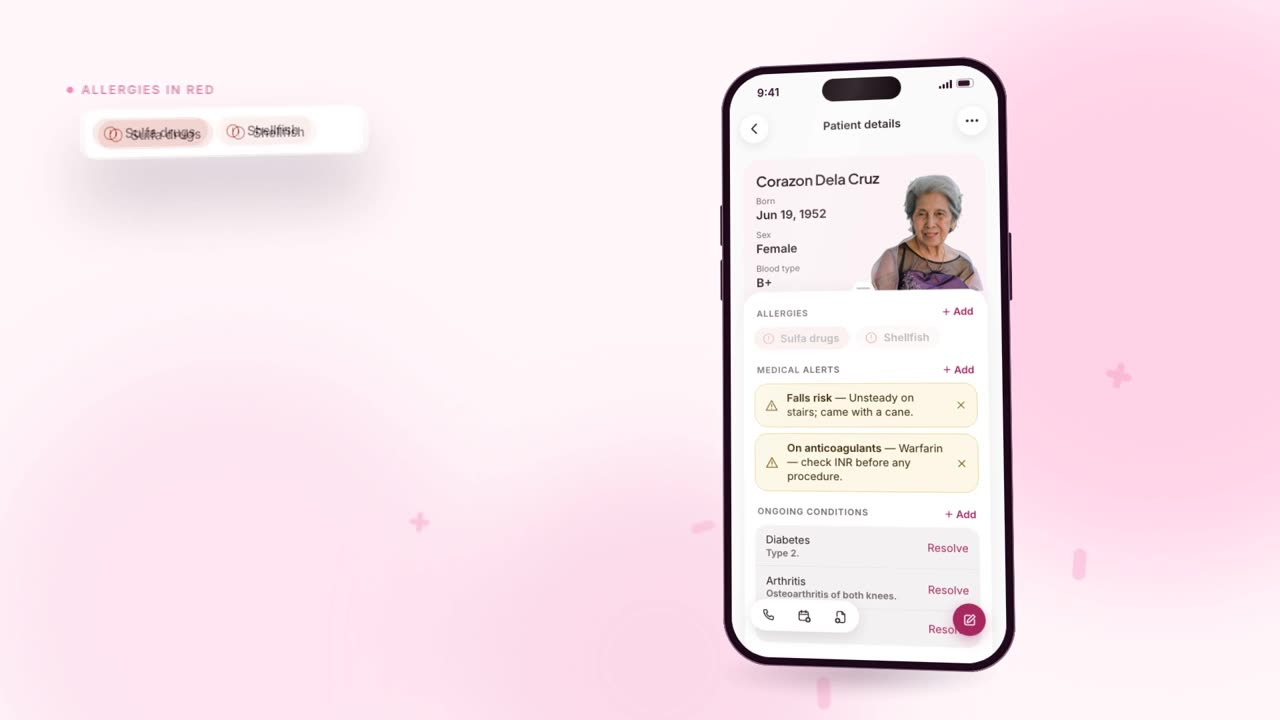
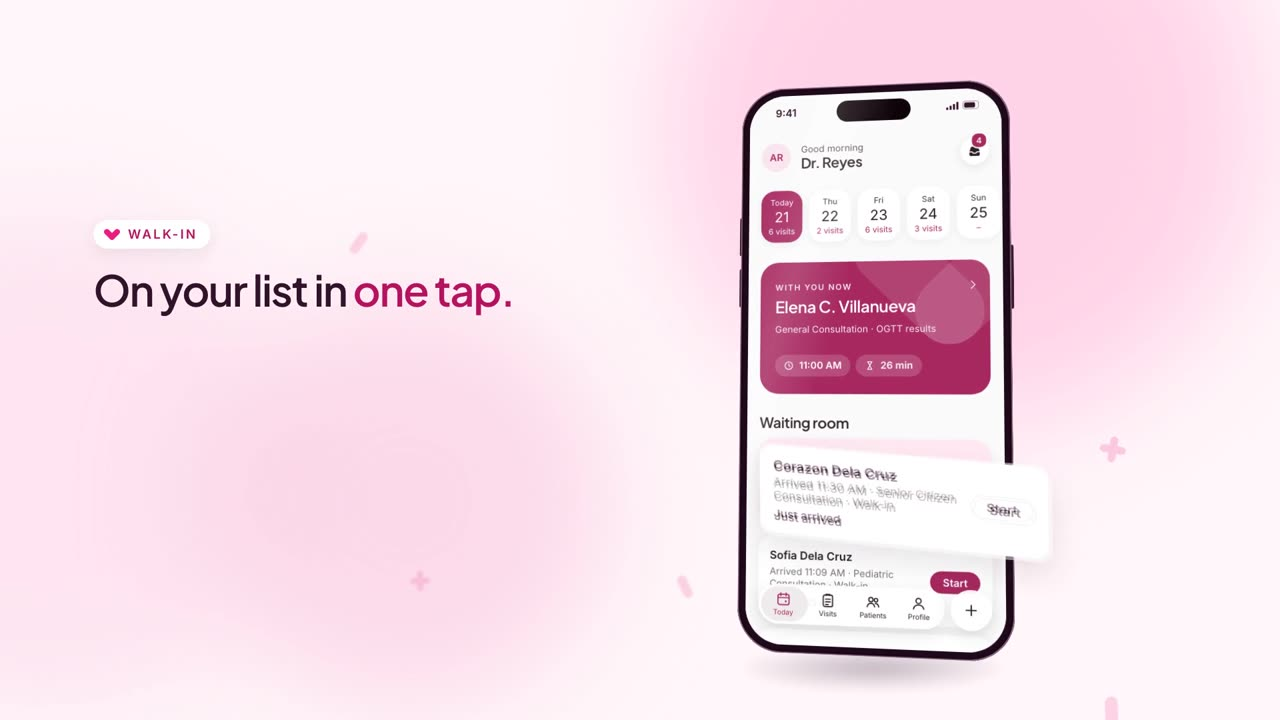
Landing: change note, hero poster, db ref

diff --git a/docs/changes/2026-10-25-1454-landing-waitlist.md b/docs/changes/2026-10-25-1454-landing-waitlist.md
@@ -1,0 +1,27 @@
+# Landing page remake and app waitlist
+
+Opened: 2026-10-25 14:54 PHT
+
+**What**
+- `app/page.tsx` rebuilt, doctors and clinics first:
+  - Hero with a silent loop from the introduction film and a "Watch the film" dialog (`public/landing/`).
+  - A paper-trail band, then the product as a scroll story: one browser window stays pinned while six steps (Today, chart, schedule, households, documents, feedback) scroll past. Each step shows its own picture on small screens.
+  - A "taken the way you were trained" bento (ICD-11, history, allergies, certificates, vaccines), the apps section with "coming soon" badges and the waitlist, and a fuchsia closing band.
+- Scroll-driven rise-in CSS in `globals.css` (no script; off with reduced motion).
+- **Waitlist:** migration `20261025T0647_waitlist` (additive), table `WaitlistEntry` (email unique, role DOCTOR / CLINIC / PATIENT, optional organization). `lib/waitlist.ts`, action `app/actions/waitlist.ts`, rate limit `waitlistAddress` (10 per hour per address). Signing up twice shows the same confirmation. **Applied to the shared dev DB** (`db:migrate --advance-ref db`); `db:verify` passes.
+
+**Why**
+A landing page for launch: the web app is live for doctors today, the apps are coming soon, so the page collects a waitlist for them.
+
+**Tested**
+- `tsc` and `eslint` pass.
+- Locally: full page at 1440px and 390px, light theme. The pinned story changes with scroll. The waitlist refuses a bad email and accepts a good one. One test row was left in: `test+landing@medfave.com`.
+- Not checked: dark theme in detail, Safari.
+
+**Not done / next**
+- Nothing reads the waitlist yet (an admin list, or an export when the apps launch).
+- Screens are from the demo clinic (Dr. Ana Reyes); swap in fresh ones when the UI changes.
+
+**Heads-up**
+- New migration: pull and `npm run db:verify`.
+- `public/landing/medfave-film.mp4` is about 8 MB.
